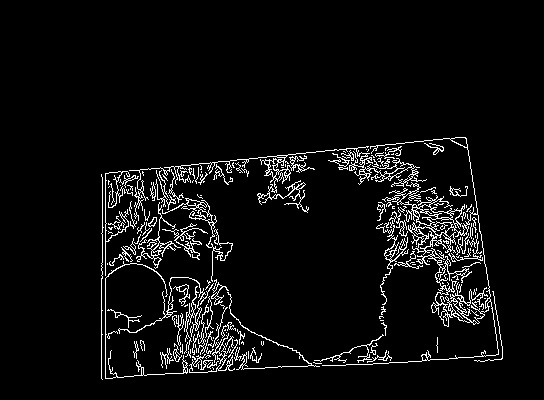
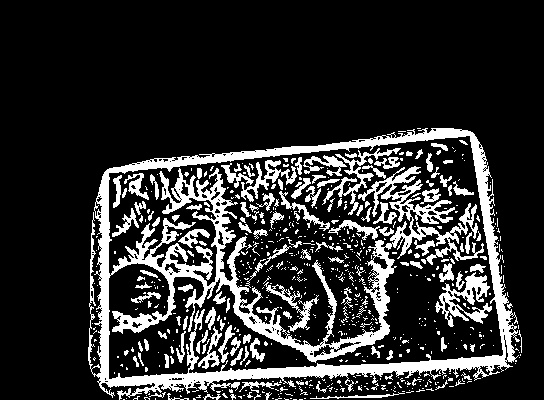
Adaptive thresholding examples

Changed region(s): [[0.1562, 0.3, 0.9688, 1.0]]

diff --git a/preprocessing.py b/preprocessing.py
@@ -55,15 +55,15 @@ def get_width_height(image):
     height, width = image.shape[:2]
     return [width, height]
 
-@profile
+#@profile
 def get_edged(G):
     global out
     gray = gray_image(image)
-    #blur = get_blurred(gray, G)
-    v = median(gray)
-    lower = int(max(0, (1.0 - 0.33) * v))
-    upper = int(max(255, (1.0 + 0.33) * v))
-    #th = adaptiveThreshold(blur, 255, ADAPTIVE_THRESH_GAUSSIAN_C, THRESH_BINARY_INV, 11, 1)
+    blur = get_blurred(gray, G)
+    #v = median(gray)
+    #lower = int(max(0, (1.0 - 0.33) * v))
+    #upper = int(max(255, (1.0 + 0.33) * v))
+    th = adaptiveThreshold(blur, 255, ADAPTIVE_THRESH_GAUSSIAN_C, THRESH_BINARY_INV, 11, 1)
     #ret, th = threshold(blur, lower, upper, THRESH_BINARY)
     #ret ,th2 = threshold(blur,0,255,THRESH_BINARY+THRESH_OTSU)
     # cv2.imwrite("Adaptive.jpg", th)
@@ -74,11 +74,11 @@ def get_edged(G):
     #print get_width_height(th)
     #out.write(cvtColor(th, COLOR_GRAY2BGR))
     #dilated = dilate(th, ones((3,3), uint8),iterations = 1)
-    edge = Canny(gray, lower, upper)
-    imwrite("canny.jpg", edge)
-    dilated = dilate(edge, ones((3, 3), uint8), iterations = 1)
-    imwrite("dilated.jpg", dilated)
-    return dilated
+    #edge = Canny(gray, lower, upper)
+    imwrite("canny.jpg", th)
+    #dilated = dilate(edge, ones((3, 3), uint8), iterations = 1)
+    #imwrite("dilated.jpg", dilated)
+    return th
     #imwrite("adaptive_edges/adaptive"+ str(counter_warped) + ".jpg", th)
     #Thread(target = write_out, args = (out, dilated,)).start()
     #return th
